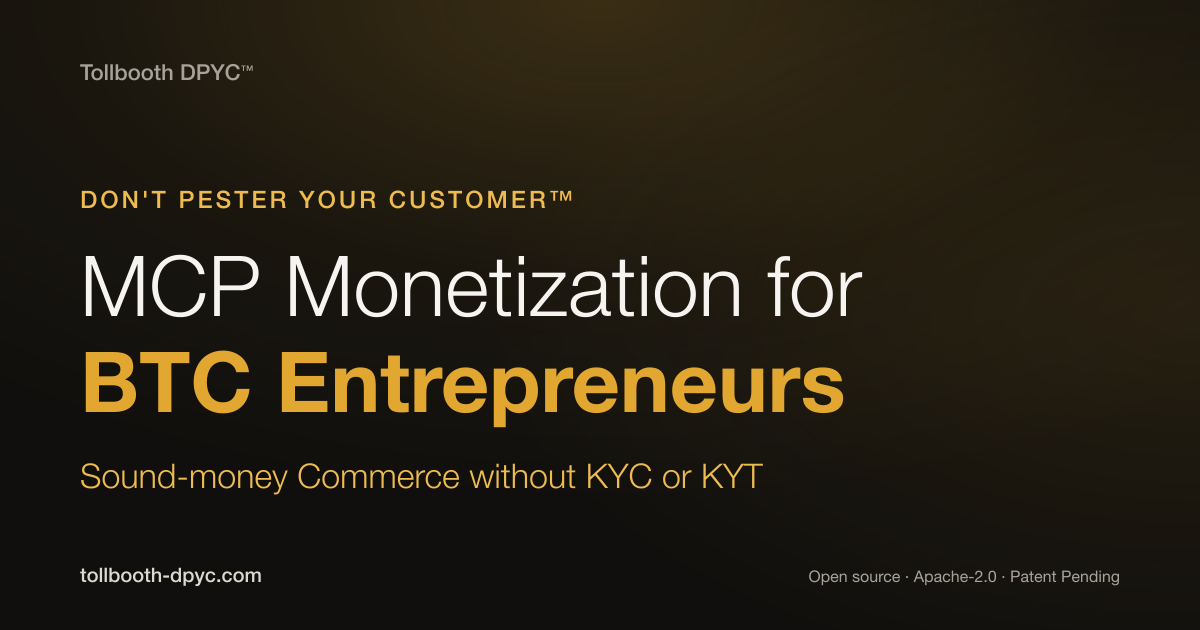
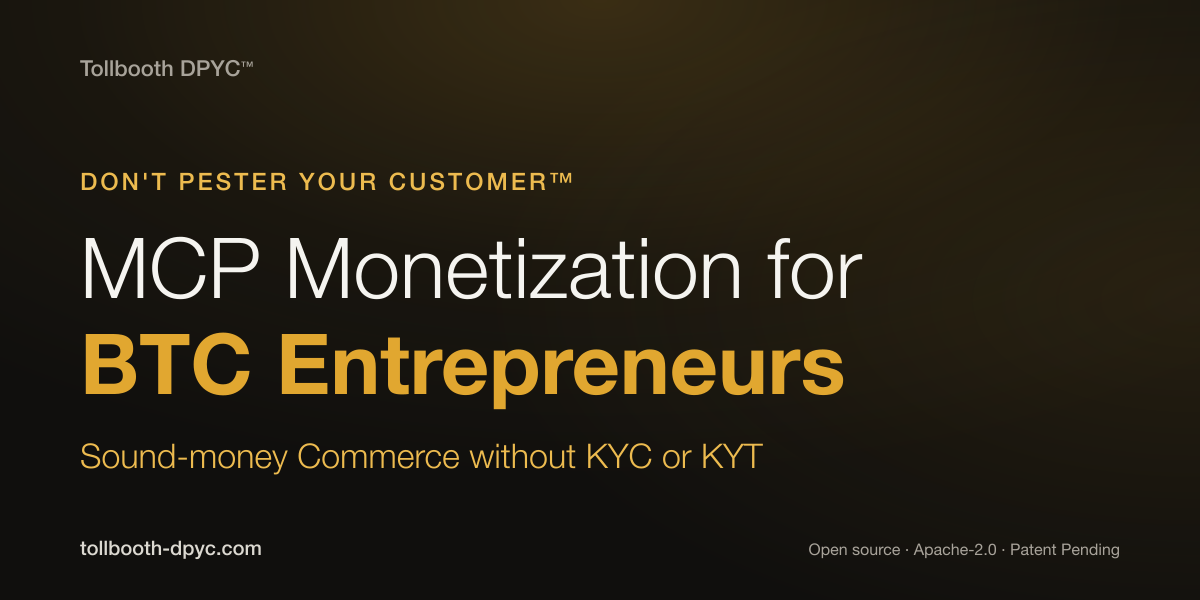
og: swap card image to true 2:1 (1200x600)
X's older summary_large_image spec wants 2:1; some unfurl pipelines
treat 1.91:1 as out-of-spec. Re-rendered at 1200x600 with adjusted
text positions and updated og:image:height to match.

diff --git a/index.html b/index.html
@@ -21,7 +21,7 @@
     <meta property="og:url" content="https://tollbooth-dpyc.com" />
     <meta property="og:image" content="https://tollbooth-dpyc.com/og-image.png" />
     <meta property="og:image:width" content="1200" />
-    <meta property="og:image:height" content="630" />
+    <meta property="og:image:height" content="600" />
     <meta property="og:image:type" content="image/png" />
     <meta property="og:image:alt" content="Tollbooth DPYC — MCP Monetization for BTC Entrepreneurs. Sound-money Commerce without KYC or KYT." />
 